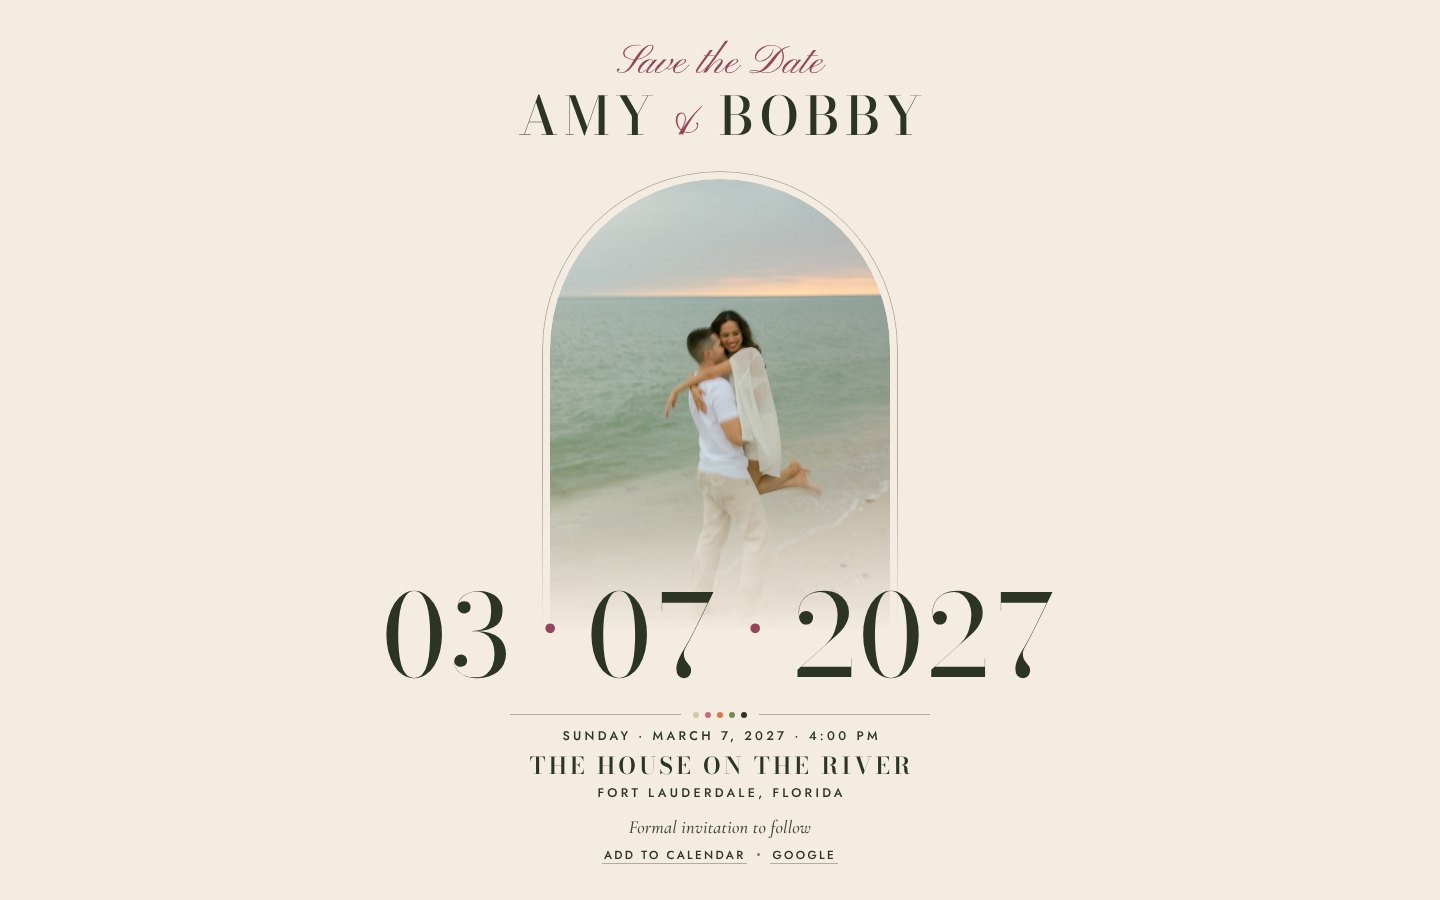
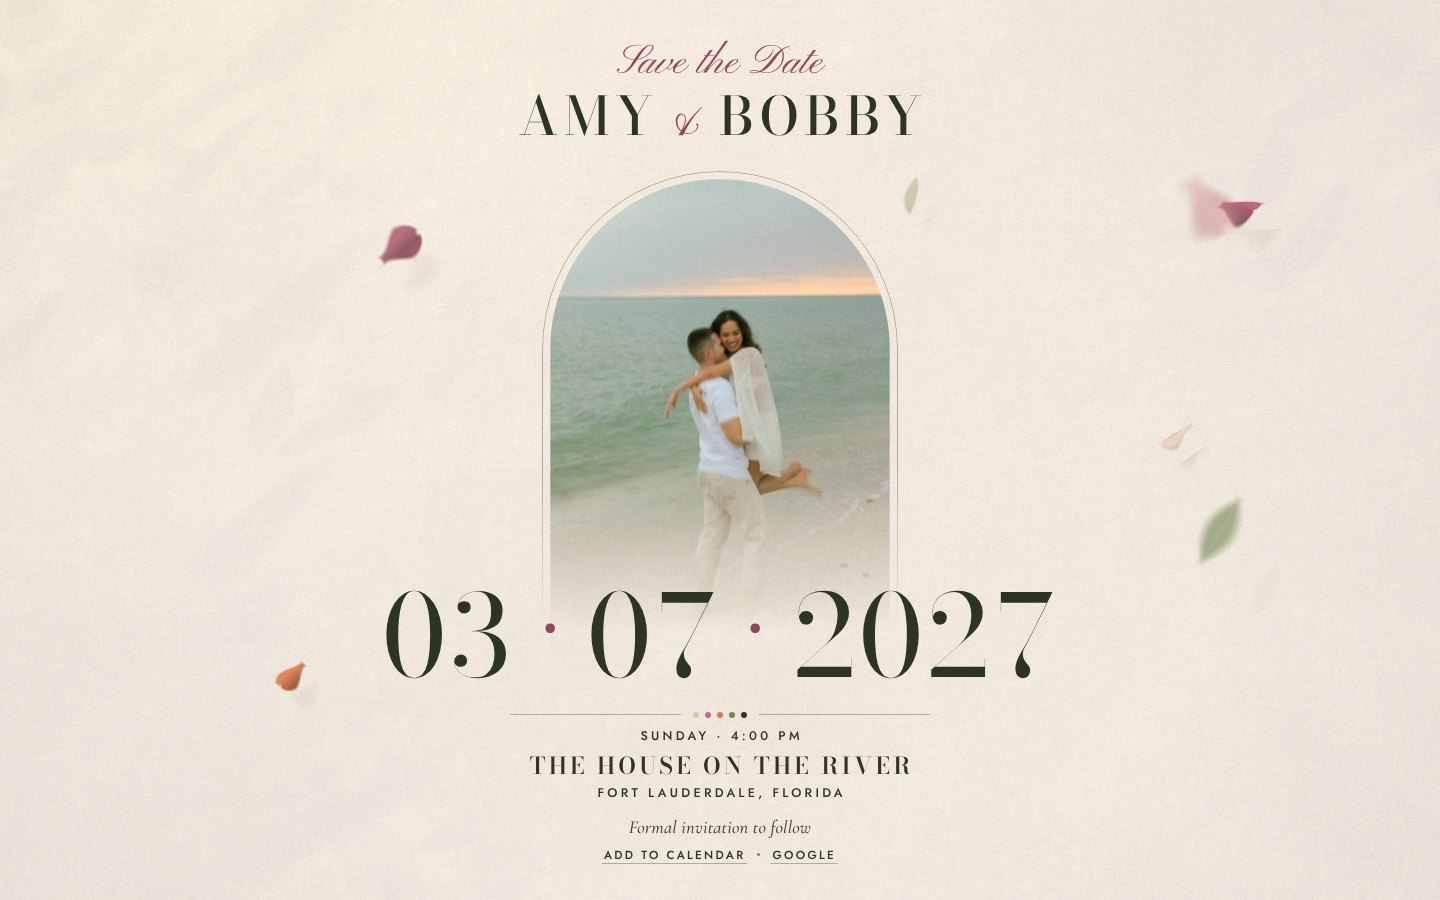
Floral: drop the repeated date from the line under the big date
The small line now reads "Sunday · 4:00 PM"; screen readers still hear
the full date and time.

Claude-Session: https://claude.ai/code/session_01M5uPph5NuzQmWXCWNt6CbL

diff --git a/floral.html b/floral.html
@@ -216,7 +216,8 @@ html.static .arch img{animation-name:fade}
 
   <div class="rule rv" style="--i:4" aria-hidden="true"><span class="dots"><i style="background:#D9C4A9"></i><i style="background:#C8697F"></i><i style="background:#DE7849"></i><i style="background:#748A4E"></i><i style="background:#2C3524"></i></span></div>
 
-  <p class="when label rv" style="--i:4" data-c="when">Sunday · March 7, 2027 · 4:00 PM</p>
+  <p class="sr" data-c="whenLong">Sunday, March 7, 2027, at 4:00 PM</p>
+  <p class="when label rv" style="--i:4" data-c="when" aria-hidden="true">Sunday · 4:00 PM</p>
   <p class="place rv" style="--i:5"><span class="venue" data-c="venue">The House on the River</span><span class="bul" aria-hidden="true"></span><span class="region label" data-c="region">Fort Lauderdale, Florida</span></p>
 
   <div class="foot rv" style="--i:6">
@@ -234,7 +235,8 @@ window.CONFIG = {
   eyebrow: 'Save the Date',
   first1: 'Amy', last1: '',
   first2: 'Bobby',  last2: '',
-  when: 'Sunday · March 7, 2027 · 4:00 PM',
+  when: 'Sunday · 4:00 PM',                      // the big date already shows the day, month and year
+  whenLong: 'Sunday, March 7, 2027, at 4:00 PM',  // read aloud by screen readers in place of the big date
   date: { mm: '03', dd: '07', yyyy: '2027' },   // shown month-first: 03 · 07 · 27
   venue: 'The House on the River',
   region: 'Fort Lauderdale, Florida',
